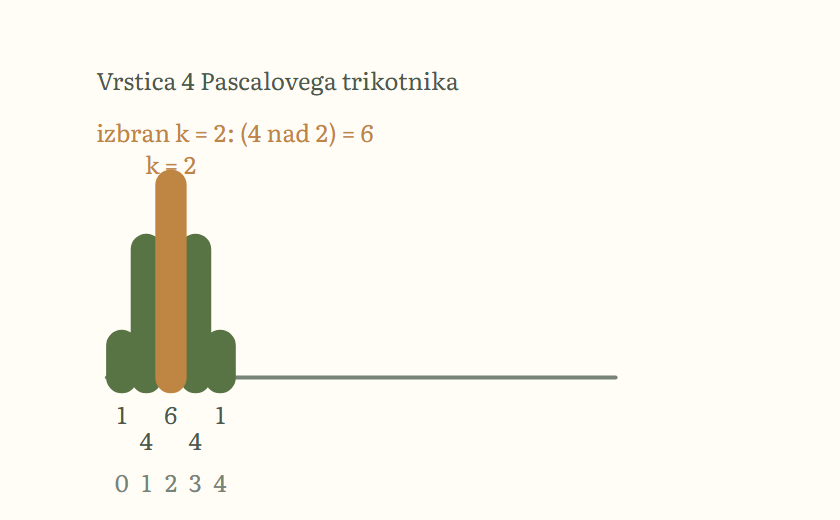
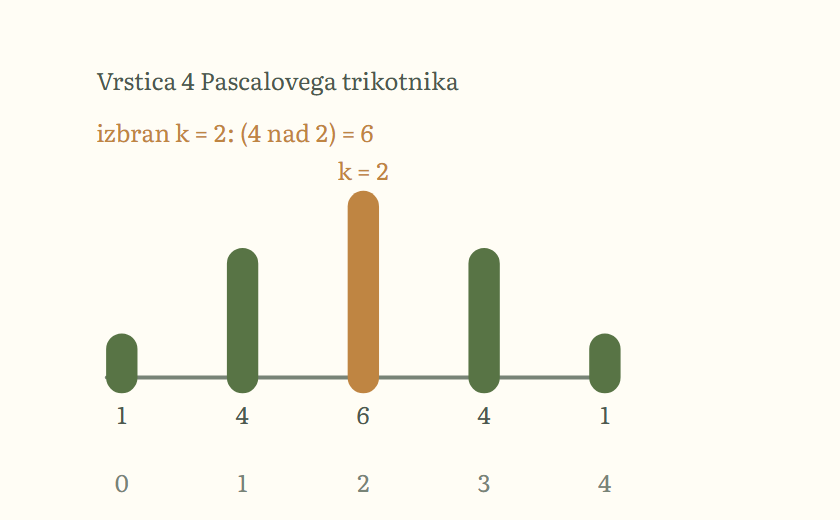
fix: counting row view spreads its bars and clears the k label
The row view placed bar j at a fixed x sized for n = 20, so rows 4 to 8
(every CB5 opening) filled the left fifth of the board. Bar spacing is
now min(6, 22.6 / max(n, 1)) from the same left start; row numbers drop
the two-level stagger when they fit; the chosen bar's "k = ..." label
sits a half stroke plus 4 px above the cap and below the top captions
(bar height 8, was 9). Tests at 600x400 and 360x295, seen red before.
CB5 card recaptured; the other four combinatorics cards are unchanged.

Claude-Session: https://claude.ai/code/session_01UfEZWKsAX6QQxcxnijYofq

diff --git a/src/graphs/combinatorics/CountingTreeGraph.test.tsx b/src/graphs/combinatorics/CountingTreeGraph.test.tsx
@@ -6,7 +6,8 @@ import {installBoardShims} from '../base/realGraphTestHarness';
 import {setLanguage, t} from '../../localization';
 import {enterNumber} from '../../inputs/testEntry';
 import {expectTypedRefusals} from '../base/typedRefusalBehaviour';
-import {BAR_BASE, BAR_HEIGHT, CountingTreeGraph, LETTER_POOL, TABLE_FIRST_ROW_Y, TREE_BOTTOM, TREE_LEFT, TREE_TOP, TREE_WIDTH, VIEW_BOX} from './CountingTreeGraph';
+import {CB5_SCENES} from '../../learning/content/combinatoricsRowGuidedLessons';
+import {BAR_BASE, BAR_CAP_PX, BAR_HEIGHT, BAR_LABEL_MARGIN_PX, CountingTreeGraph, LETTER_POOL, TABLE_FIRST_ROW_Y, TREE_BOTTOM, TREE_LEFT, TREE_TOP, TREE_WIDTH, VIEW_BOX} from './CountingTreeGraph';
 
 beforeAll(installBoardShims);
 beforeEach(() => setLanguage('sl'));
@@ -685,7 +686,7 @@ describe('review repairs', () => {
         choose(exampleLabel(), 'row10');
         const marks = shown(graph).filter(o => textOf(o) === 'k = 5');
         expect(marks.length).toBe(1);
-        expect(marks[0].X!()).toBeCloseTo(0.9 + 1.15 * 5, 9);
+        expect(marks[0].X!()).toBeCloseTo(0.9 + (22.6 / 10) * 5, 9);
         const top = BAR_BASE + BAR_HEIGHT;
         const gap = marks[0].Y!() - top;
         expect(gap).toBeGreaterThan(0);
@@ -811,6 +812,69 @@ describe('tree caption placement', () => {
                 const a = c.box, b = other.box;
                 expect([c.text, other.text, a.x0 < b.x1 && a.x1 > b.x0 && a.y0 < b.y1 && a.y1 > b.y0]).toEqual([c.text, other.text, false]);
             }
+        }
+    }));
+});
+
+describe('row view layout', () => {
+    // 600 x 400 is the shim board, 360 x 295 the phone board of the 390 px screenshots.
+    const sizes: Array<[number, number]> = [[600, 400], [360, 295]];
+    const lessonKs = [...new Set(Object.values(CB5_SCENES).map(scene => scene.spec.k))];
+
+    const rowBoxes = (graph: ObservedGraph) => {
+        const board = graph.liveBoard();
+        const [left, top] = board.getBoundingBox();
+        const px = (x: number, y: number): [number, number] => [(x - left) * board.unitX, (top - y) * board.unitY];
+        const boxes = shown(graph).filter(o => (o as unknown as {plaintext: string}).plaintext !== '').map(o => {
+            const text = (o as unknown as {plaintext: string}).plaintext;
+            const fontSize = Number(o.evalVisProp('fontSize'));
+            const [x, y] = px(o.X!(), o.Y!());
+            const w = text.length * fontSize * 0.55, h = fontSize * 1.25;
+            const x0 = o.evalVisProp('anchorX') === 'middle' ? x - w / 2 : x;
+            const y0 = o.evalVisProp('anchorY') === 'top' ? y : o.evalVisProp('anchorY') === 'bottom' ? y - h : y - h / 2;
+            return {text, box: {x0, x1: x0 + w, y0, y1: y0 + h}};
+        });
+        return {px, boxes};
+    };
+    const mountRow = (n: number, k: number) => {
+        const {graph} = mountGraph();
+        set(graph, {view: 'row', n, k, t: 0.5});
+        act(() => { graph.liveBoard().setBoundingBox([...VIEW_BOX], false); });
+        return graph;
+    };
+
+    test('the bars of a short row spread over the board; every bar and label of row 20 is inside it', () => withElementSize(600, 400, () => {
+        const graph = mountRow(4, 2);
+        const [, plain, selected] = curves(graph);
+        const xs = finite([...plain.x, ...selected.x]);
+        expect((Math.max(...xs) - Math.min(...xs)) / (VIEW_BOX[2] - VIEW_BOX[0])).toBeGreaterThanOrEqual(0.7);
+        const full = mountRow(20, 10);
+        const [baseline, plain20, selected20] = curves(full);
+        for (const x of finite([...baseline.x, ...plain20.x, ...selected20.x])) expect(x >= VIEW_BOX[0] && x <= VIEW_BOX[2]).toBe(true);
+        const {boxes} = rowBoxes(full);
+        for (const c of boxes) if (/^(\d+|k = \d+)$/.test(c.text)) expect([c.text, c.box.x0 >= 0 && c.box.x1 <= 600]).toEqual([c.text, true]);
+        const numbers = boxes.filter(c => /^\d+$/.test(c.text) && c.box.y0 > 0);
+        for (const a of numbers) for (const b of numbers) if (a !== b) expect([a.text, b.text, a.box.x0 < b.box.x1 && a.box.x1 > b.box.x0 && a.box.y0 < b.box.y1 && a.box.y1 > b.box.y0]).toEqual([a.text, b.text, false]);
+    }));
+
+    test.each(sizes)('on a %d x %d px board the "k = ..." text is clear of the bar cap and of the captions at the top, for rows 0 to 20', (width, height) => withElementSize(width, height, () => {
+        for (const n of [0, 1, 4, 10, 20]) for (const k of lessonKs) {
+            const place = Math.min(k, n);
+            const graph = mountRow(n, k);
+            const {px, boxes} = rowBoxes(graph);
+            const label = boxes.find(c => c.text === t('combinatorics_counting_cap_bar_k', {value0: String(place)}))!;
+            expect(label).toBeDefined();
+            const [, plain, selected] = curves(graph);
+            const [, topY] = [selected.x[1], selected.y[1]];
+            const capTop = px(selected.x[1], topY)[1] - BAR_CAP_PX;
+            expect([n, k, label.box.y1 <= capTop - BAR_LABEL_MARGIN_PX + 1e-6]).toEqual([n, k, true]);
+            for (const caption of [t('combinatorics_counting_cap_row', {value0: String(n)}), t('combinatorics_counting_cap_weights', {value0: '0,5'}), t('combinatorics_counting_cap_selected', {value0: String(place), value1: ''})]) {
+                for (const other of boxes.filter(c => c.text.startsWith(caption.slice(0, 8)) && c !== label)) {
+                    const a = label.box, b = other.box;
+                    expect([n, k, other.text, a.x0 < b.x1 && a.x1 > b.x0 && a.y0 < b.y1 && a.y1 > b.y0]).toEqual([n, k, other.text, false]);
+                }
+            }
+            expect(plain).toBeDefined();
         }
     }));
 });

diff --git a/src/graphs/combinatorics/CountingTreeGraph.tsx b/src/graphs/combinatorics/CountingTreeGraph.tsx
@@ -54,10 +54,17 @@ export const TREE_WIDTH = 23.2;
 export const treeLeafX = (index: number, leaves: number): number => TREE_LEFT + ((index + 0.5) * TREE_WIDTH) / Math.max(1, leaves);
 /** Row layout: bar j is C(n, j) with its weight. */
 export const BAR_BASE = 9.5;
-export const BAR_HEIGHT = 9;
-export const barX = (index: number): number => 0.9 + 1.15 * index;
-/** The text "k = 3" sits this far above the top of the chosen bar, so the choice is not carried by colour alone. */
-export const MARKER_GAP = 0.3;
+/** 8 units: the tallest bar, its cap and its "k = ..." text (about 27 px) stay under the caption row "selected" on a 295 px high board (the phone board). */
+export const BAR_HEIGHT = 8;
+/** The bars of row n share the width from ROW_LEFT to ROW_RIGHT; a short row is not stretched past ROW_STEP_MAX (a row of 1 or 2 bars would look absurd), n = 20 keeps about the old 1.15. */
+export const ROW_LEFT = 0.9;
+export const ROW_RIGHT = 23.5;
+export const ROW_STEP_MAX = 6;
+export const rowStep = (n: number): number => Math.min(ROW_STEP_MAX, (ROW_RIGHT - ROW_LEFT) / Math.max(n, 1));
+export const barX = (index: number, n: number): number => ROW_LEFT + rowStep(n) * index;
+/** Pixels from the top of the chosen bar to the top of its round cap (half the 14 px stroke), and the margin between that cap and the bottom of its "k = ..." text. */
+export const BAR_CAP_PX = 7;
+export const BAR_LABEL_MARGIN_PX = 4;
 /** Grouping panel of the table (unordered choices without repetition, k from 2 to 4): up to GROUP_LIMIT combinations in three columns. */
 export const GROUP_LIMIT = 3;
 export const GROUP_X = [0.2, 8.4, 16.6] as const;
@@ -484,24 +491,36 @@ export class CountingTreeGraph extends BaseGraph<CountingTreeGraphState, Countin
 
     private buildRow(): void {
         const showing = (j: number) => () => j <= this.state.n;
+        const x = (j: number) => () => barX(j, this.state.n);
         this.curve(() => {
             const poly = emptyPoly();
-            addPolyline(poly, [[0.2, BAR_BASE], [24, BAR_BASE]]);
+            addPolyline(poly, [[0.2, BAR_BASE], [Math.min(24, barX(this.state.n, this.state.n) + 0.7), BAR_BASE]]);
             return poly;
         }, GraphPalette.axis, 1, 0);
         this.curve(() => this.barData(false), GraphPalette.primaryCurve, 14, 0);
         this.curve(() => this.barData(true), GraphPalette.constructionAccent, 14, 0);
         for (let j = 0; j < ROW_POOL; j++) {
-            this.caption(() => (j <= this.state.n ? countText(this.row().row[j]) : ""), barX(j), BAR_BASE - 1 - 1.2 * (j % 2), GraphPalette.label, showing(j),
+            this.caption(() => (j <= this.state.n ? countText(this.row().row[j]) : ""), x(j), () => BAR_BASE - 1 - (this.rowStaggered() ? 1.2 * (j % 2) : 0), GraphPalette.label, showing(j),
                 {anchorX: "middle", anchorY: "top", fontSize: 13});
-            this.caption(() => (j <= this.state.n ? smallText(j) : ""), barX(j), 4.6, GraphPalette.axis, showing(j), {anchorX: "middle", fontSize: 12});
+            this.caption(() => (j <= this.state.n ? smallText(j) : ""), x(j), 4.6, GraphPalette.axis, showing(j), {anchorX: "middle", fontSize: 12});
         }
         // The chosen bar is also named in text above its top: the accent colour alone does not carry the choice.
-        this.caption(() => t("combinatorics_counting_cap_bar_k", {value0: smallText(this.rowPlace())}), () => barX(this.rowPlace()),
-            () => BAR_BASE + this.barHeight(this.rowPlace()) + MARKER_GAP, GraphPalette.constructionAccent, true, {anchorX: "middle", anchorY: "bottom", fontSize: 13});
+        this.caption(() => t("combinatorics_counting_cap_bar_k", {value0: smallText(this.rowPlace())}), () => barX(this.rowPlace(), this.state.n),
+            () => BAR_BASE + this.barHeight(this.rowPlace()) + (BAR_CAP_PX + BAR_LABEL_MARGIN_PX) / this.unitY(), GraphPalette.constructionAccent, true, {anchorX: "middle", anchorY: "bottom", fontSize: 13});
         this.caption(() => t("combinatorics_counting_cap_row", {value0: smallText(this.state.n)}), -0.3, 23.4, GraphPalette.label);
         this.caption(() => t("combinatorics_counting_cap_weights", {value0: numberText(this.state.t / T_DENOMINATOR)}), -0.3, 22.2, GraphPalette.label);
         this.caption(() => t("combinatorics_counting_cap_selected", {value0: smallText(this.rowPlace()), value1: this.selectedText()}), -0.3, 21, GraphPalette.constructionAccent);
+    }
+
+    private unitY(): number {
+        return this.board.unitY > 0 ? this.board.unitY : 1;
+    }
+
+    /** The row numbers stand on two levels when the widest one (estimated, 0.55 of the font size per character) is wider than the pixels between two bars. */
+    private rowStaggered(): boolean {
+        const unitX = this.board.unitX > 0 ? this.board.unitX : 24;
+        const widest = Math.max(...this.row().row.map(value => countText(value).length));
+        return widest * 13 * 0.55 + 6 > rowStep(this.state.n) * unitX;
     }
 
     private selectedText(): string {
@@ -515,7 +534,7 @@ export class CountingTreeGraph extends BaseGraph<CountingTreeGraphState, Countin
         this.row().weights.forEach((_, j) => {
             if (selectedOnly && j !== this.rowPlace()) return;
             if (!selectedOnly && j === this.rowPlace()) return;
-            addPolyline(poly, [[barX(j), BAR_BASE], [barX(j), BAR_BASE + this.barHeight(j)]]);
+            addPolyline(poly, [[barX(j, this.state.n), BAR_BASE], [barX(j, this.state.n), BAR_BASE + this.barHeight(j)]]);
         });
         return poly;
     }

diff --git a/docs/reviews/feature-streams/families-prep/notes/f5-combinatorics.md b/docs/reviews/feature-streams/families-prep/notes/f5-combinatorics.md
@@ -44,3 +44,13 @@
 - Frame viewed (840x520): board text is left of centre. Title "Vrstica 4 Pascalovega trikotnika", orange "izbran k = 2: (4 nad 2) = 6", five thick bars (green, orange tallest third), baseline running right, numbers 1 4 6 4 1 under the bars (staggered rows), place numbers 0 1 2 3 4 below. All five bars and the row numbers are inside the card and readable. The long weight caption is hidden at card size (catalog text policy).
 - Crowding (graph-owned, not fixed): the "k = 2" label above the orange bar overlaps the "izbran k = 2" line and touches the bar top; the bars are crowded in the left third, wide strokes touch each other.
 - Checks: unit `src/learning/chapter` + familyChapters, scripts tests, tsc, lint, rawcheck passed (logs in `.command-logs/comb-c/f4/`). Preview 4523 stopped.
+
+## Row view layout (handler 32)
+
+The row view of the counting tree spaced its bars at a fixed 1.15 (made for n = 20), so rows 4 to 8 filled the left fifth of the board, and the chosen bar's "k = ..." text sat 0.3 units above the bar top, inside the round cap (7 px) and, on a phone board, against the "izbran k = ..." caption.
+
+- Spacing: `rowStep(n) = min(6, 22.6 / max(n, 1))`, bars from x = 0.9 to 23.5 (`barX(index, n)`). n = 20 gives 1.13 (was 1.15); the cap 6 keeps a row of 1 or 2 bars from stretching. The baseline ends 0.7 past the last bar (at most 24). Row numbers go on one level when the widest one (0.55 em per character estimate, 13 px) fits the pixel step, otherwise on two levels as before.
+- Label: at the bar top plus (7 px cap + 4 px margin) in pixels. `BAR_HEIGHT` is 9 -> 8 so the tallest bar, cap and label (about 27 px) stay under the "selected" caption on a 295 px high board. A first attempt that shrank the bars with the board's unit failed the capture's presentation-geometry check, so heights stay unit-free.
+- The card's window is wider than the view box, so the n = 4 row occupies the left 60 % of the new card (bars at 0.9 to 23.5 in a window of about -4.8 to 34.5); the "k = 2" text now stands clear above the cap and the row numbers are on one level.
+- The other four cards are byte-identical (sha256 checked). The catalog `counting-tree` recipe sets n and k on the choices view, so it is unaffected.
+- Evidence: `.command-logs/comb-c/rowlayout/` (red.log: 4 failures on the old code; unit.log, tc.log, lint.log, capture.log).
